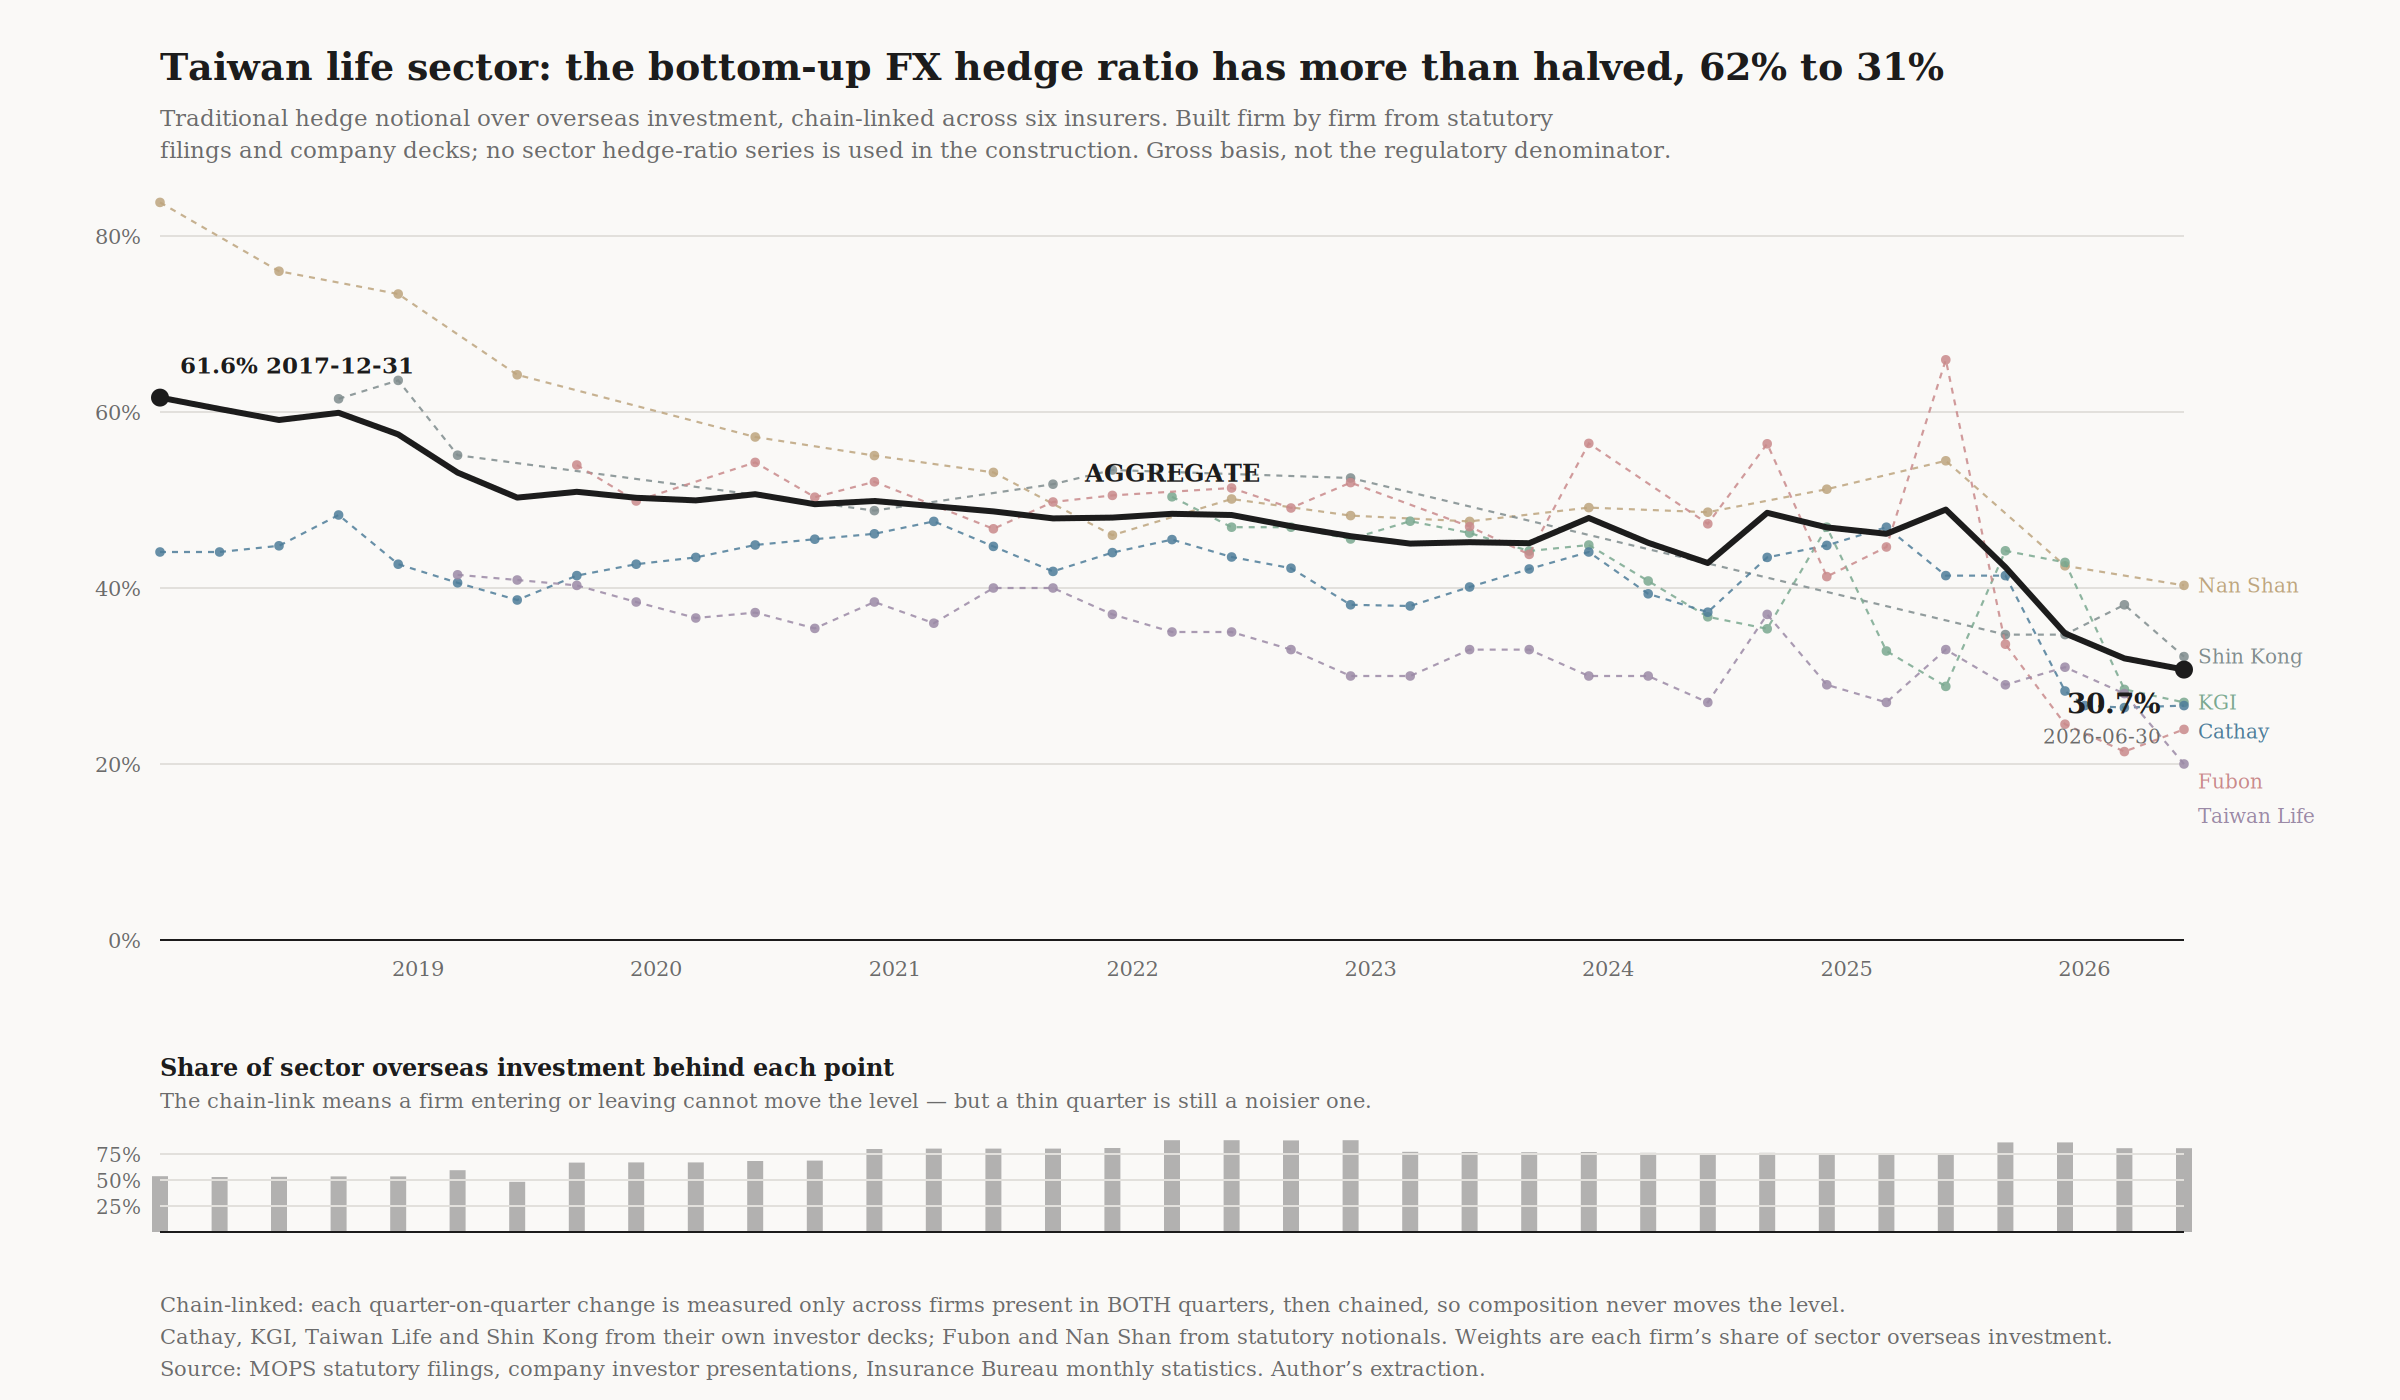
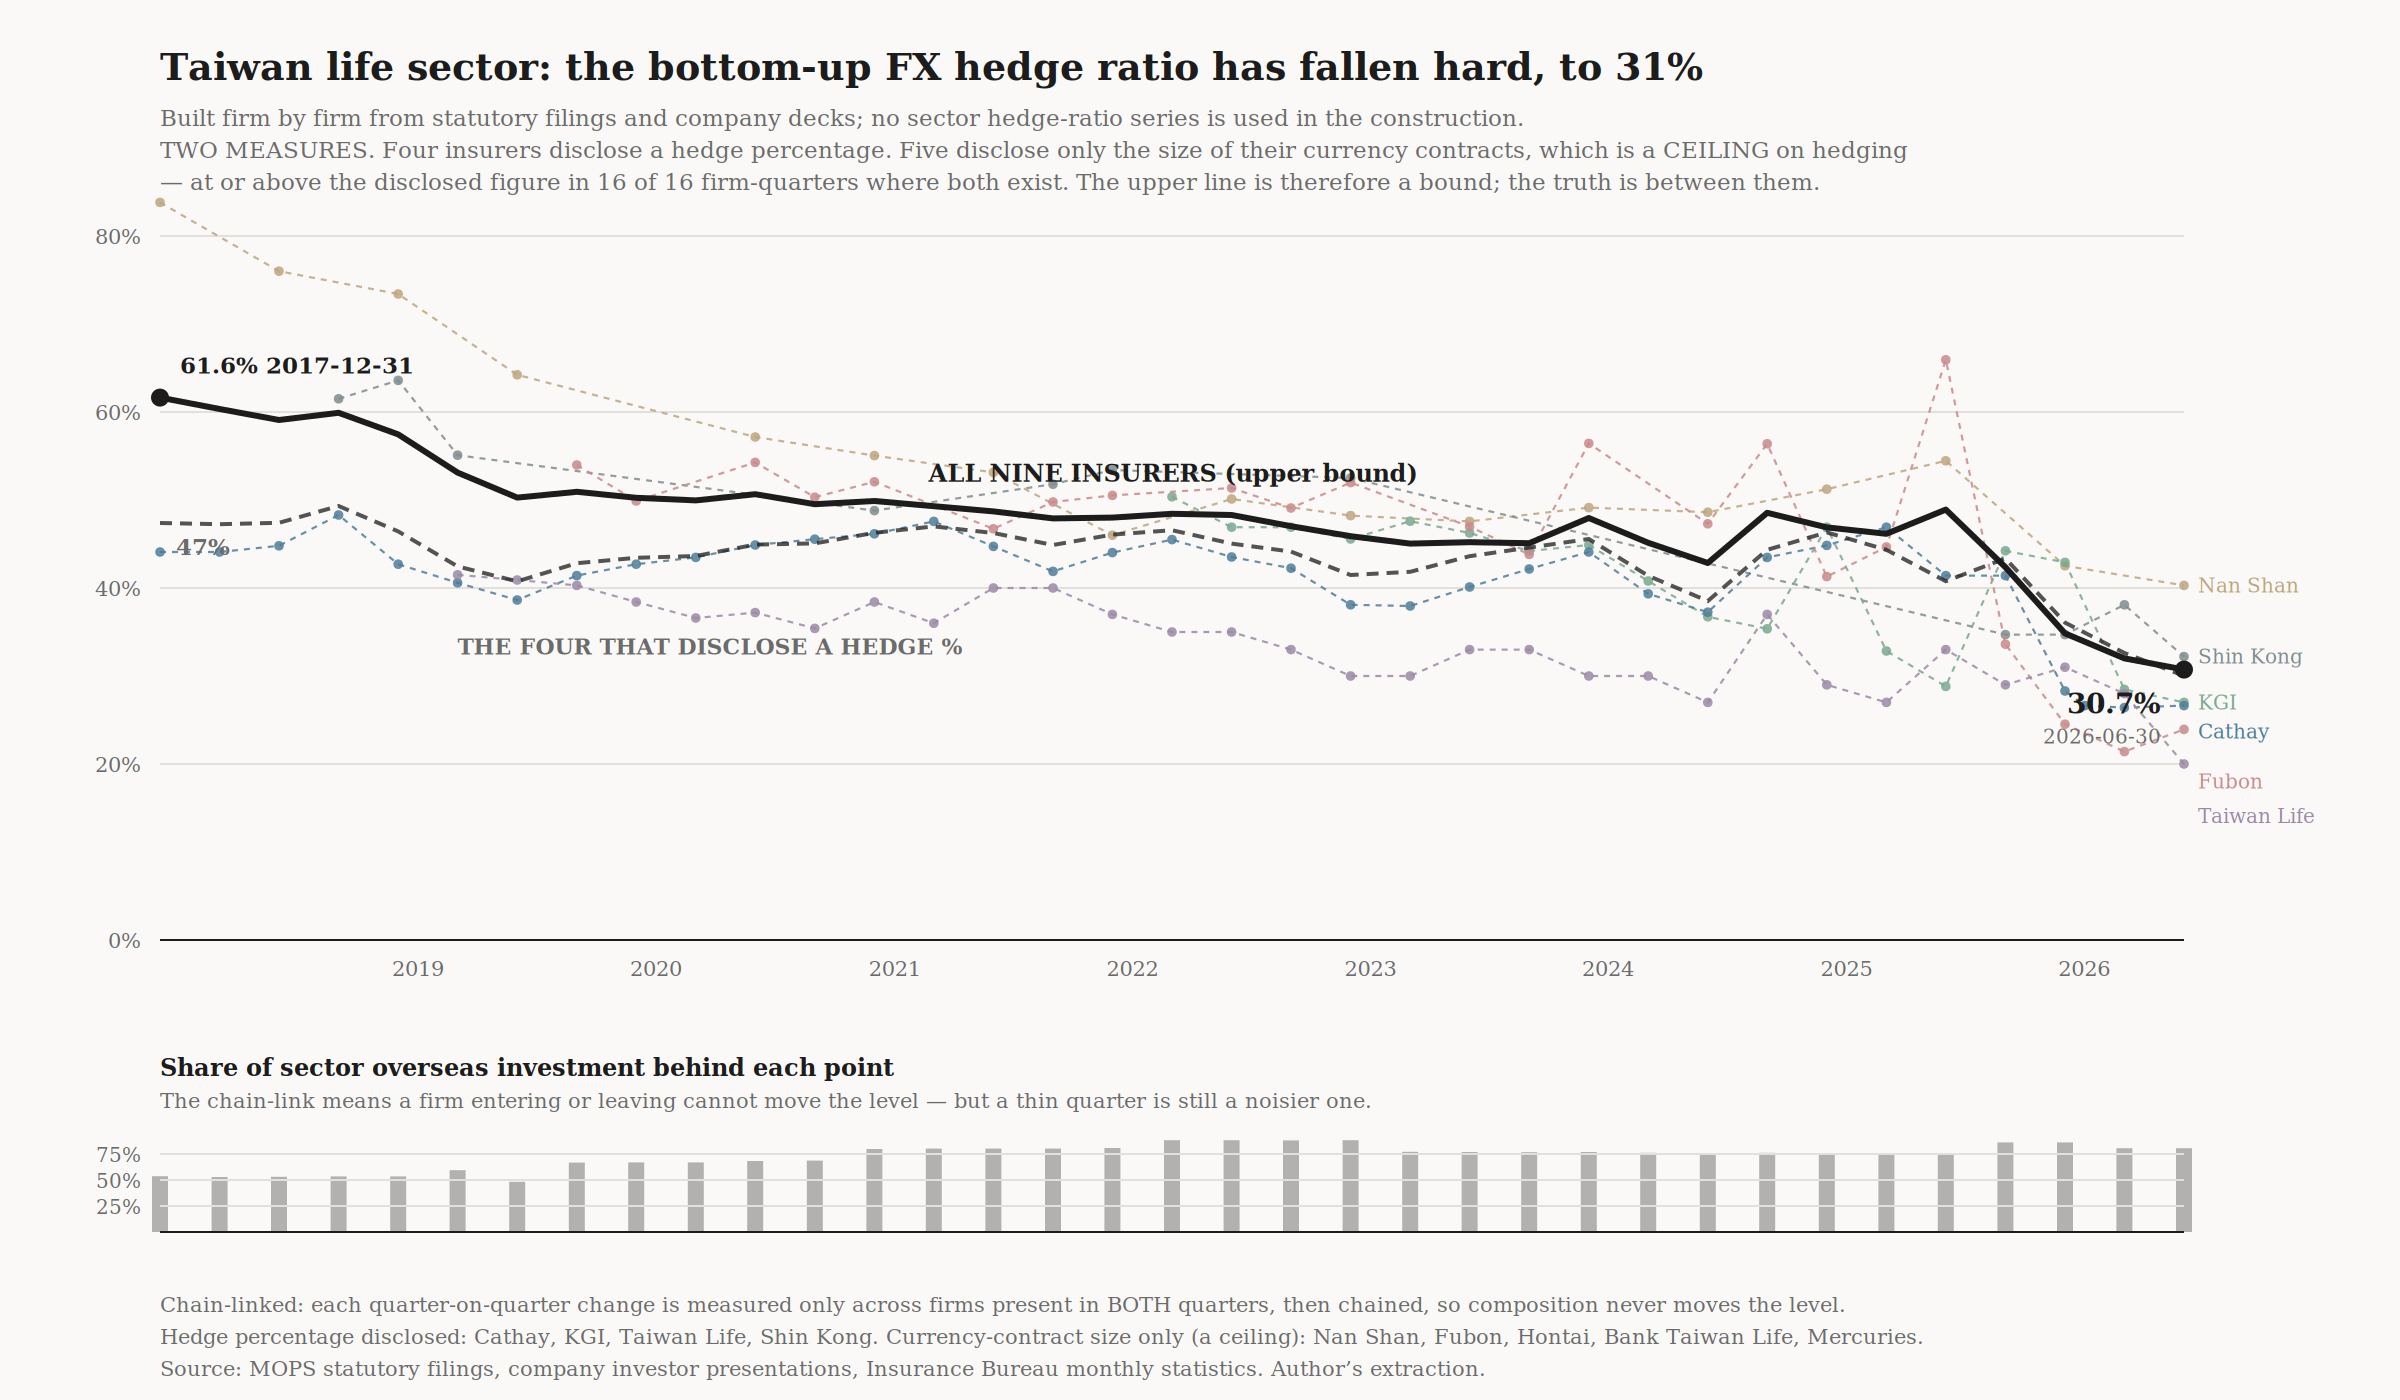
Put both measures on the chart, and stop stating the bound as the fact
The headline read "has more than halved, 62% to 31%". The 62% is the upper
bound, not the level: five of the nine contributing insurers disclose only the
size of their currency contracts, which is at or above the disclosed hedge
percentage in sixteen of sixteen firm-quarters where both exist. Quoting it as
the number, on the artefact most likely to be looked at without the note beside
it, is the error this project keeps having to correct.

The measure-consistent line — the four insurers that publish a hedge
percentage — is now drawn beside it as a dashed series, both labelled, with the
reason in the subtitle. It starts at 47% where the bound starts at 62% and the
two converge by 2021. The footnote also now names which firms are on which
measure, rather than describing a six-firm construction that has not been
current for some time.

Claude-Session: https://claude.ai/code/session_01U6NeEFVTAXo1Ao7VaAHCtb

diff --git a/scripts/stage6_aggregate_hedge_ratio.py b/scripts/stage6_aggregate_hedge_ratio.py
@@ -56,6 +56,7 @@ NOTIONAL = ROOT / "data" / "firm_hedge_notional.csv"
 FX = ROOT / "data" / "usdtwd_monthly.csv"
 DECKPIE = ROOT / "data" / "deck_pie.csv"
 OUT = ROOT / "data" / "aggregate_hedge_ratio.csv"
+DECK_ONLY = ROOT / "data" / "aggregate_hedge_ratio_deck_only.csv"
 
 # config/firm_uids.tsv only. Nothing inferred: an earlier pass guessed four more
 # identifiers and produced hedge ratios of 1,534% and 10,610%.
@@ -421,6 +422,27 @@ def _t(x, y, s, size=11, fill=INK, anchor="start", weight="normal"):
             f'font-family="Georgia,\'Times New Roman\',serif">{s}</text>')
 
 
+def deck_only_rows():
+    """The measure-consistent series, if stage7_measure_check has written it.
+
+    Drawn beside the main line because the two are not interchangeable and the
+    chart is where that has to be visible. Five of the nine contributing
+    insurers publish no hedge percentage, only the size of their currency
+    contracts, and that is a CEILING on hedging rather than a measurement of it
+    — at or above the disclosed figure in sixteen of sixteen firm-quarters
+    where both exist (4.76). So the main line is an upper bound wherever those
+    firms carry weight, and this one is the like-for-like measure over a third
+    of the sector instead of seven eighths.
+    """
+    if not DECK_ONLY.exists():
+        return []
+    out = []
+    for r in csv.DictReader(open(DECK_ONLY, newline="", encoding="utf-8")):
+        if r.get("hedge_ratio"):
+            out.append((r["as_of"], float(r["hedge_ratio"])))
+    return out
+
+
 def chart(rows, obs, share_obs):
     """One picture: the aggregate, the firms behind it, and the coverage."""
     W, H = 1200, 700
@@ -439,14 +461,18 @@ def chart(rows, obs, share_obs):
          f'fill="#faf9f7"/>']
     a0, a1 = rows[0]["hedge_ratio"], rows[-1]["hedge_ratio"]
     o.append(_t(L, 40, f"Taiwan life sector: the bottom-up FX hedge ratio has "
-                       f"more than halved, {a0:.0%} to {a1:.0%}", 19, INK,
-                weight="bold"))
-    o.append(_t(L, 63, "Traditional hedge notional over overseas investment, "
-                       "chain-linked across six insurers. Built firm by firm "
-                       "from statutory", 11.5, MUTE))
-    o.append(_t(L, 79, "filings and company decks; no sector hedge-ratio "
-                       "series is used in the construction. Gross basis, not "
-                       "the regulatory denominator.", 11.5, MUTE))
+                       f"fallen hard, to {a1:.0%}", 19, INK, weight="bold"))
+    o.append(_t(L, 63, "Built firm by firm from statutory filings and company "
+                       "decks; no sector hedge-ratio series is used in the "
+                       "construction.", 11.5, MUTE))
+    o.append(_t(L, 79, "TWO MEASURES. Four insurers disclose a hedge "
+                       "percentage. Five disclose only the size of their "
+                       "currency contracts, which is a CEILING on hedging",
+                11.5, MUTE))
+    o.append(_t(L, 95, "— at or above the disclosed figure in 16 of 16 "
+                       "firm-quarters where both exist. The upper line is "
+                       "therefore a bound; the truth is between them.",
+                11.5, MUTE))
 
     for g in range(0, 81, 20):
         y = ys(g / 100)
@@ -508,8 +534,19 @@ def chart(rows, obs, share_obs):
     o.append(_t(xs(ag[-1][0]) - 12, ys(ag[-1][1]) + 37, ag[-1][0], 10, MUTE,
                 "end"))
     mid = ag[len(ag) // 2]
-    o.append(_t(xs(mid[0]), ys(mid[1]) - 16, "AGGREGATE", 12, INK, "middle",
-                "bold"))
+    o.append(_t(xs(mid[0]), ys(mid[1]) - 16, "ALL NINE INSURERS (upper bound)",
+                12, INK, "middle", "bold"))
+    dk = [(d, v) for d, v in deck_only_rows() if d >= ag[0][0]]
+    if len(dk) > 1:
+        pts = " ".join(f"{xs(d):.1f},{ys(v):.1f}" for d, v in dk)
+        o.append(f'<polyline points="{pts}" fill="none" stroke="{INK}" '
+                 f'stroke-width="2" stroke-dasharray="6 4" opacity="0.75"/>')
+        m2 = dk[len(dk) // 6]
+        o.append(_t(xs(m2[0]), ys(m2[1]) + 44,
+                    "THE FOUR THAT DISCLOSE A HEDGE %", 11, MUTE, "start",
+                    "bold"))
+        o.append(_t(xs(dk[0][0]) + 8, ys(dk[0][1]) + 16, f"{dk[0][1]:.0%}",
+                    11.5, MUTE, "start", "bold"))
 
     # coverage. BAR is the height of a 100% bar, so the strip's own captions
     # have to clear STRIP - BAR; written at STRIP - 34 they were printed across
@@ -538,11 +575,10 @@ def chart(rows, obs, share_obs):
                            "measured only across firms present in BOTH "
                            "quarters, then chained, so composition never "
                            "moves the level.", 10.5, MUTE))
-    o.append(_t(L, H - 28, "Cathay, KGI, Taiwan Life and Shin Kong from their "
-                           "own investor decks; Fubon and Nan Shan from "
-                           "statutory notionals. Weights are each "
-                           "firm\u2019s share of sector overseas investment.",
-                10.5, MUTE))
+    o.append(_t(L, H - 28, "Hedge percentage disclosed: Cathay, KGI, Taiwan "
+                           "Life, Shin Kong. Currency-contract size only "
+                           "(a ceiling): Nan Shan, Fubon, Hontai, Bank Taiwan "
+                           "Life, Mercuries.", 10.5, MUTE))
     o.append(_t(L, H - 12, "Source: MOPS statutory filings, company investor "
                            "presentations, Insurance Bureau monthly statistics. "
                            "Author\u2019s extraction.", 10.5, MUTE))
